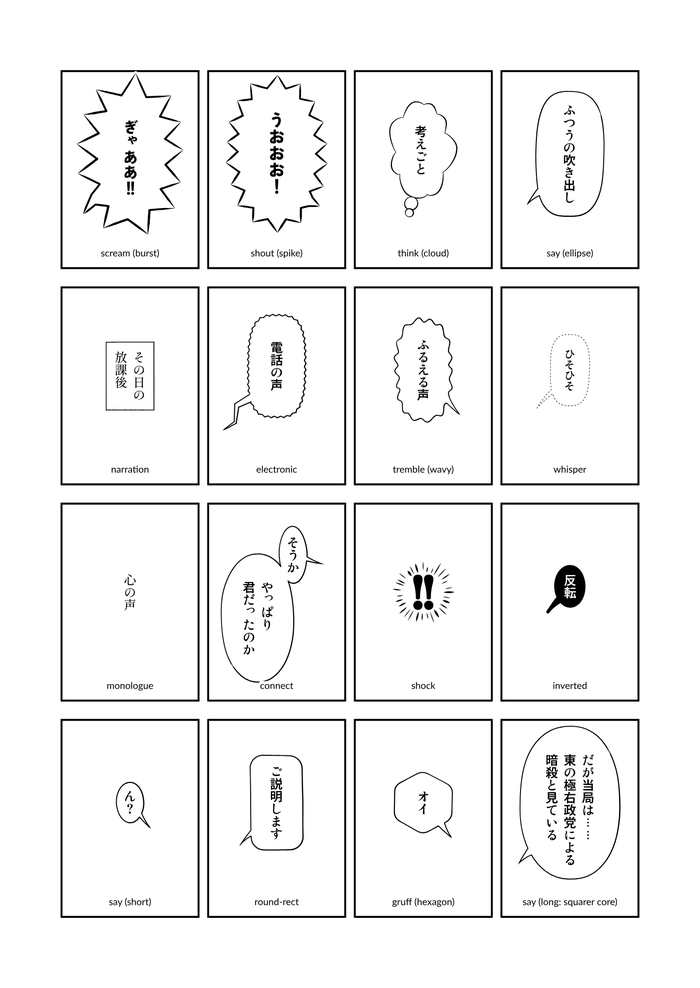
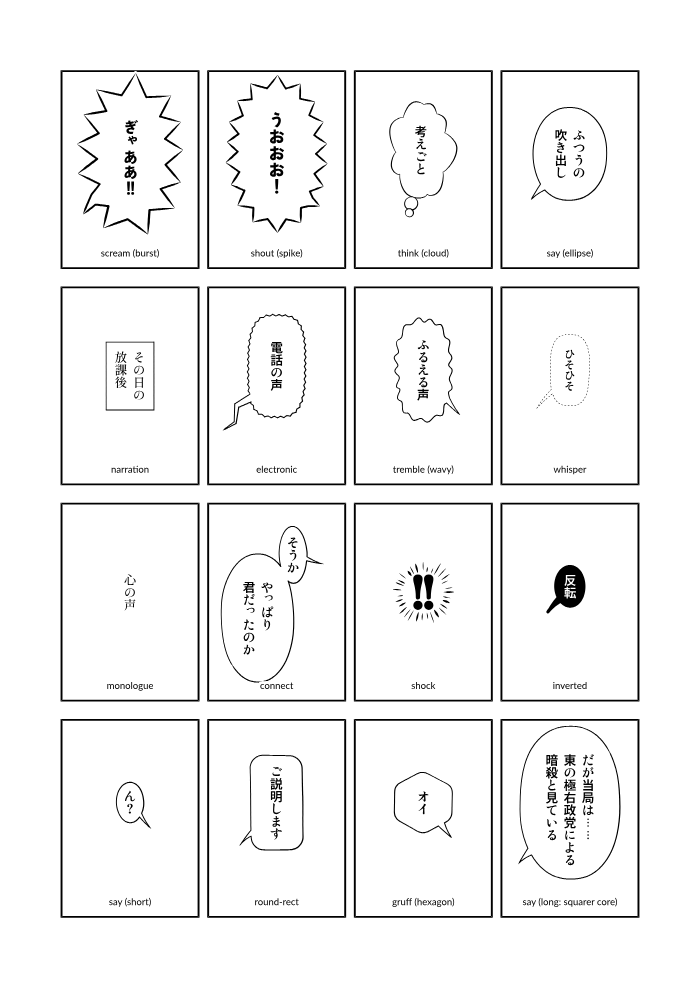
Break balloon columns at full-width spaces (#97)
* Treat full-width balloon spaces as phrase breaks

* Preserve ruby metadata when breaking balloon phrases

* Normalize balloon phrase breaks after parsing markup

* Drop trailing periods at balloon phrase breaks

---------

diff --git a/test/balloon-size.test.ts b/test/balloon-size.test.ts
@@ -6,6 +6,8 @@ import { FontRegistry } from "../src/fonts/registry.js";
 import { pointInPolygon } from "../src/geom/path.js";
 import { resolveDocument } from "../src/model/resolve.js";
 import { BODY_GENERATORS } from "../src/shapes/balloon.js";
+import { layoutText } from "../src/text/layout.js";
+import { resolveTextStyle } from "../src/elements/textstyle.js";
 
 const fonts = new FontRegistry(new Map() as never, "manga-basic", [], {});
 
@@ -79,6 +81,81 @@ describe("balloon text extent sizing", () => {
       expect(p.outer.h).toBeLessThanOrEqual(h + 1e-6);
     }
   });
+  it.each(["vertical", "horizontal"])("uses full-width spaces as phrase breaks in %s balloons", async (writing) => {
+    const expected = await plan("いや〜\n字が\n勝手に\nデカく", writing);
+    const actual = await plan("いや〜　字が\n勝手に　デカく", writing);
+    expect(actual.text).toEqual(expected.text);
+    expect(actual.outer).toEqual(expected.outer);
+    expect(actual.base).toEqual(expected.base);
+  });
+  it.each([
+    "　あ　　い　", "あ　\nい", "あ\n　い", "あ　\r\n　い",
+    "あ　<br>い", "あ<br>　い", "あ　\n　\n　い",
+  ])("collapses space breaks without adding empty columns: %j", async (text) => {
+    expect((await plan(text)).text).toEqual((await plan("あ\nい")).text);
+  });
+  it.each(["", "　", "　　"])("keeps empty phrase text finite: %j", async (text) => {
+    const actual = await plan(text);
+    const empty = await plan("");
+    expect(actual.text).toEqual(empty.text);
+    expect(actual.outer).toEqual(empty.outer);
+    expect(Number.isFinite(actual.outer.w + actual.outer.h)).toBe(true);
+  });
+  it("respects phrase breaks with wrapping disabled and localized text", async () => {
+    const actual = await plan("unused", "vertical", { text: { ja: "あ　い", en: "other" }, wrap: "none" });
+    expect(actual.text.lines.map(line => line.text)).toEqual(["あ", "い"]);
+  });
+  it("preserves half-width word spaces", async () => {
+    expect((await plan("hello world", "horizontal", { wrap: "none" })).text.lines).toHaveLength(1);
+  });
+  it.each(["はい。　次。", "はい。　次。　", "はい。　　次。　　"])("drops trailing periods at phrase breaks: %s", async (text) => {
+    const actual = await plan(text, "vertical", { normalize: { dropTrailingPeriod: true } });
+    expect(actual.text).toEqual((await plan("はい\n次")).text);
+  });
+  it("preserves periods at phrase breaks when dropping is disabled", async () => {
+    expect((await plan("はい。　次。　", "vertical", { normalize: { dropTrailingPeriod: false } })).text.lines.map(line => line.text)).toEqual(["はい。", "次。"]);
+  });
+  it.each([
+    '<ruby="よみ　かた">漢字</ruby>',
+    '<ruby text="よみ　かた">漢字</ruby>',
+    "｜漢字《よみ　かた》",
+    "漢字《よみ　かた》",
+  ])("preserves full-width spaces in ruby metadata: %s", async (text) => {
+    const actual = await plan(text, "vertical", { wrap: "none" });
+    const style = resolveTextStyle({ ...actual.el.props, text }, { units: "mm", dpi: 96, k: 1 }, "ja", true, actual.el.seed);
+    expect(actual.text).toEqual(layoutText(text, style, fonts));
+    expect(actual.text.errors).toEqual([]);
+    const phrases = await plan(`${text}　次`, "vertical", { wrap: "none" });
+    expect(phrases.text.lines.map(line => line.text)).toEqual(["漢字", "次"]);
+    expect(phrases.text.errors).toEqual([]);
+  });
+  it("breaks full-width base-text spaces inside formatting tags", async () => {
+    expect((await plan("<b>あ　い</b>")).text).toEqual((await plan("<b>あ\nい</b>")).text);
+  });
+  it.each([
+    { text: "あ<br>　い", expected: "あ<br>\nい", markup: false },
+    { text: "あ\\<br>　い", expected: "あ\\<br>\nい", markup: true },
+  ])("preserves literal line-break tags: $text", async ({ text, expected, markup }) => {
+    const actual = await plan(text, "vertical", { markup, wrap: "none" });
+    expect(actual.text).toEqual((await plan(expected, "vertical", { markup, wrap: "none" })).text);
+    expect(actual.text.lines.map(line => line.text)).toEqual(["あ<br>", "い"]);
+  });
+  it.each([
+    "｜山　川《やまかわ》", '<ruby="やまかわ">山　川</ruby>',
+    "<b>　</b>｜山　川《やまかわ》<b>　</b>",
+  ])("preserves full-width spaces within ruby bases: %s", async (text) => {
+    const actual = await plan(text, "vertical", { wrap: "none" });
+    const reference = text.replace(/<b>　<\/b>/g, "");
+    const style = resolveTextStyle({ ...actual.el.props, text: reference }, { units: "mm", dpi: 96, k: 1 }, "ja", true, actual.el.seed);
+    expect(actual.text).toEqual(layoutText(reference, style, fonts));
+    expect(actual.text.errors).toEqual([]);
+    expect(actual.text.lines.map(line => line.text)).toEqual(["山　川"]);
+  });
+  it.each(["narration", "aside"])("does not change full-width spaces in %s", async (as) => {
+    const actual = await plan("あ　い", "vertical", { as, wrap: "none" });
+    expect(actual.text.lines).toHaveLength(1);
+  });
+
   it("defaults tremble to irregular waves while honoring explicit waveforms", async () => {
     expect((await plan("ふるえる声", "vertical", { as: "tremble" })).params.waveform).toBe("irregular");
     const regular = await plan("ふるえる声", "vertical", { as: "tremble", shape: { kind: "wavy", waveform: "sine" } });

diff --git a/src/elements/balloon.ts b/src/elements/balloon.ts
@@ -14,7 +14,7 @@ import type { Node, Paint } from "../render/ir.js";
 import polygonClipping from "polygon-clipping";
 import { BODY_GENERATORS, type BodyGeom, type ShapeParams } from "../shapes/balloon.js";
 import { Contour, type PluginBalloonShape, activePlugins } from "../plugin.js";
-import { type TextLayout, layoutText } from "../text/layout.js";
+import { type TextLayout, layoutText, parseLayoutText } from "../text/layout.js";
 import { type ElemCtx, silhouetteHit, tag } from "./context.js";
 import { fillNode, inksToNodes, polysToPath } from "./inkir.js";
 import { type GlyphRun, glyphNodes } from "./glyphs.js";
@@ -144,6 +144,7 @@ function planBalloonWithFit(el: RElement, ctx: ElemCtx, fallback?: { lineEm: num
   if (!BODY_GENERATORS[params.kind] && !activePlugins()?.shapes.has(params.kind)) ctx.bag.error("SCHEMA_ENUM", `unknown balloon shape "${params.kind}"`, { path: [...el.path, "shape"] });
   const shapeSeed = rng.nextU32();
   const text = textValue(p.text, ctx.lang, ctx.defaultLang, () => ctx.bag.warn("TEXT_MISSING_TRANSLATION", `no "${ctx.lang}" text`, { path: el.path, elementId: el.id }));
+  const balloonPhraseBreaks = p.as !== "narration" && p.as !== "aside";
   const fill = parsePaint(p.fill ?? "paper", { u, box: { x: 0, y: 0, w: 10, h: 10 }, seed: el.seed, bag: ctx.bag, path: [...el.path, "fill"] });
   const lum = paintAvgLuminance(fill);
   const textColor = (p.color as string) ?? (lum < 0.5 ? "white" : "black");
@@ -165,7 +166,10 @@ function planBalloonWithFit(el: RElement, ctx: ElemCtx, fallback?: { lineEm: num
   let scale = 1;
   let constrainAuto = p.as === "aside";
   for (let attempt = 0; attempt < 12; attempt++) {
-    const style = resolveTextStyle({ ...p, fontScale: ((p.fontScale as number) ?? 1) * scale }, u, ctx.lang, true, el.seed);
+    const styleProps = { ...p, text, fontScale: ((p.fontScale as number) ?? 1) * scale };
+    const initialStyle = resolveTextStyle(styleProps, u, ctx.lang, true, el.seed);
+    const authoredText = parseLayoutText(text, initialStyle, balloonPhraseBreaks).units.map(unit => unit.kind === "char" ? unit.ch : unit.kind === "break" ? "\n" : "").join("");
+    const style = resolveTextStyle({ ...styleProps, text: authoredText }, u, ctx.lang, true, el.seed);
     if (kind === "electronic") params.toothPitch = Math.max(style.fontSize / 2, 0.3 * u.k);
     const emCtx = { ...u, em: style.fontSize };
     const pad = Array.isArray(p.padding) ? p.padding : ["0.45em", "0.9em"];
@@ -208,7 +212,7 @@ function planBalloonWithFit(el: RElement, ctx: ElemCtx, fallback?: { lineEm: num
       if (isFinite(lim)) boxLimit = Math.min(boxLimit ?? Infinity, Math.max(lim, style.fontSize * 4.5));
     }
     if (fallback) boxLimit = Math.min(boxLimit ?? Infinity, style.fontSize * fallback.lineEm + 1e-6);
-    let tl = layoutText(text, style, ctx.fonts, boxLimit);
+    let tl = layoutText(text, style, ctx.fonts, boxLimit, balloonPhraseBreaks);
     if (p.as === "aside") {
       const pts = tl.glyphs.flatMap(g => flattenPath(g.path).flatMap(q => q.pts));
       if (pts.length) {

diff --git a/src/text/layout.ts b/src/text/layout.ts
@@ -145,14 +145,32 @@ function isLatinChar(ch: string): boolean {
   return (cp >= 0x21 && cp <= 0x7e) || (cp >= 0xa0 && cp <= 0x24f);
 }
 
-export function parseLayoutText(text: string, style: TextStyle): ParsedText {
+export function parseLayoutText(text: string, style: TextStyle, balloonPhraseBreaks = false): ParsedText {
   const parsed: ParsedText = parseMarkup(text, { markup: style.markup, normalize: { ...(/^(ja|zh|ko)/.test(style.lang) ? style.normalize : { ellipsis: false, dash: false, waveDash: false, smartQuotes: true, ...style.normalize }), uppercase: style.textTransform === "uppercase" }, vertical: style.writing === "vertical" });
+  if (balloonPhraseBreaks) {
+    const units = parsed.units;
+    const space = (unit: Unit) => unit.kind === "char" && unit.ch === "\u3000" && unit.ruby === undefined;
+    parsed.units = [];
+    for (let i = 0; i < units.length;) {
+      let end = i;
+      while (end < units.length && (units[end].kind === "break" || space(units[end]))) end++;
+      if (end > i && units.slice(i, end).some(space)) {
+        if ((i > 0 && end < units.length) || units.slice(i, end).some(unit => unit.kind === "break")) parsed.units.push({ kind: "break" });
+        i = end;
+      } else {
+        parsed.units.push(units[i++]);
+      }
+    }
+    if (style.normalize.dropTrailingPeriod) {
+      parsed.units = parsed.units.filter((unit, i, units) => !(unit.kind === "char" && unit.ruby === undefined && unit.ch === "。" && (i === units.length - 1 || units[i + 1].kind === "break")));
+    }
+  }
   if (style.writing === "vertical") assignTcy(parsed.units, style.tcy, style.latin);
   return parsed;
 }
 
-export function layoutText(text: string, style: TextStyle, reg: FontRegistry, boxLimit?: number): TextLayout {
-  const parsed = parseLayoutText(text, style);
+export function layoutText(text: string, style: TextStyle, reg: FontRegistry, boxLimit?: number, balloonPhraseBreaks = false): TextLayout {
+  const parsed = parseLayoutText(text, style, balloonPhraseBreaks);
   const vertical = style.writing === "vertical";
   const em = style.fontSize;
   const missing: string[] = [];
